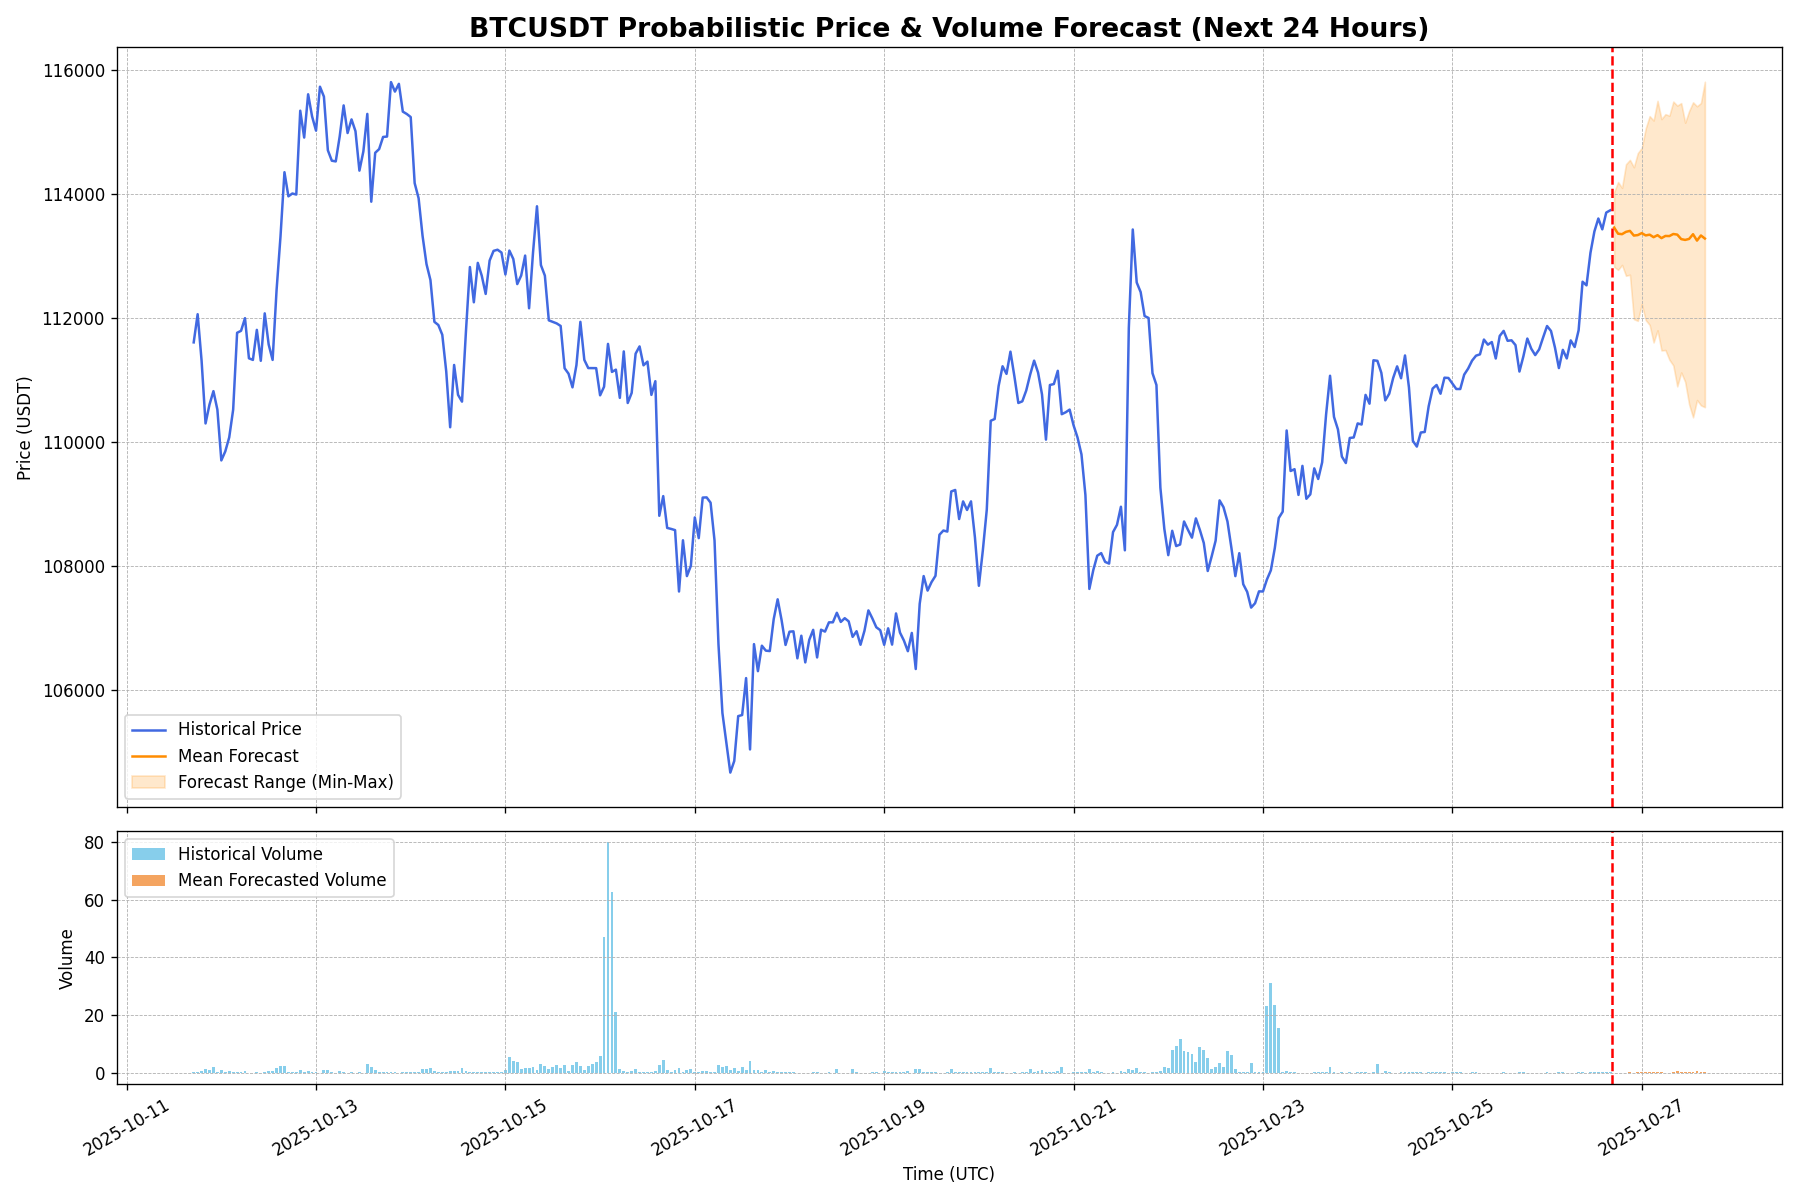
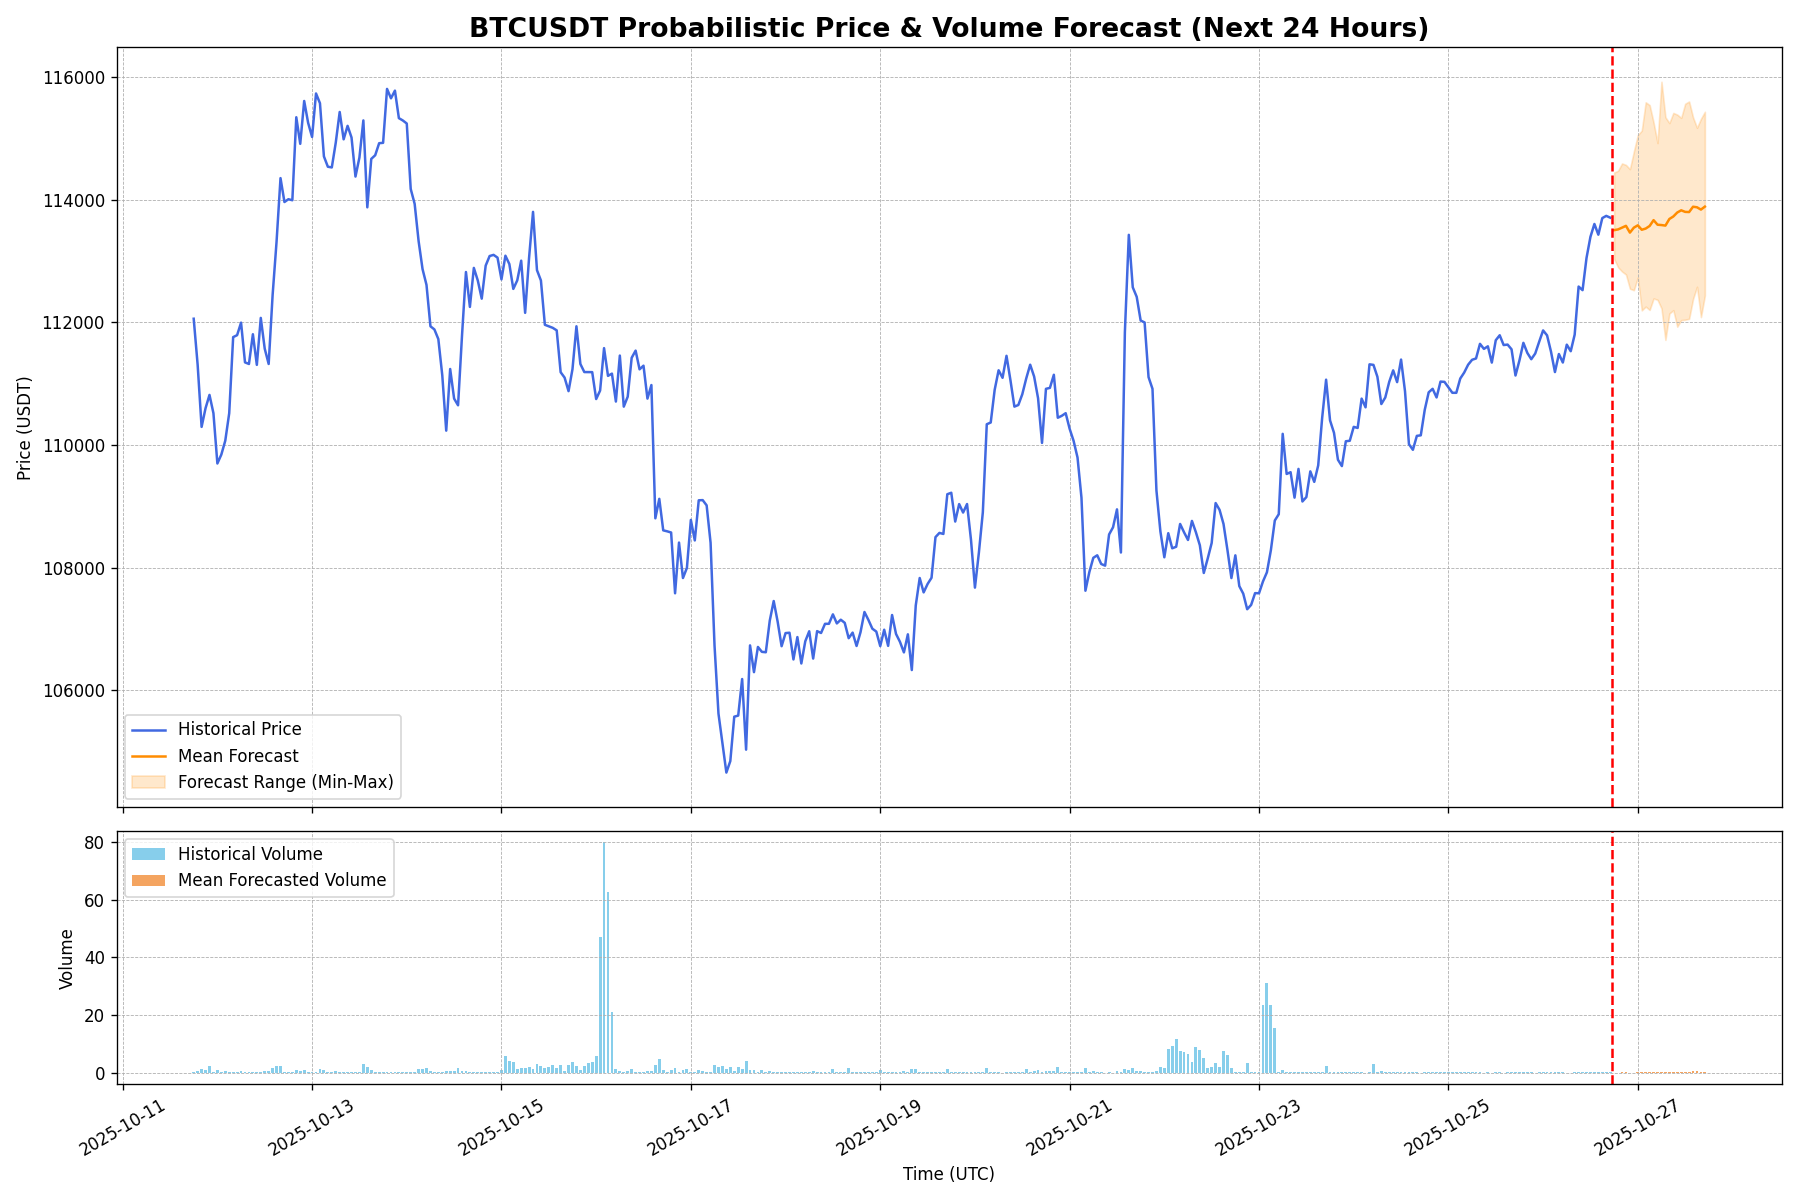
Auto-update forecast for 2025-10-26 18:13 UTC

diff --git a/index.html b/index.html
@@ -22,19 +22,19 @@
         <section id="live-dashboard">
             <h2>Live BTC/USDT Forecast Dashboard</h2>
             <div class="metadata">
-                <span>Last Updated (UTC): <strong id="update-time">2025-10-26 17:22:49</strong></span>
+                <span>Last Updated (UTC): <strong id="update-time">2025-10-26 18:13:09</strong></span>
                 <span>Data Source: Binance | Interval: 1-Hour</span>
             </div>
 
             <div class="metrics-container">
                 <div class="metric-card">
                     <h3>Upside Probability (Next 24h)</h3>
-                    <p class="metric-value" id="upside-prob">40.0%</p>
+                    <p class="metric-value" id="upside-prob">60.0%</p>
                     <div class="metric-desc">The model's confidence that the price in 24 hours will be higher than the last known price.</div>
                 </div>
                 <div class="metric-card">
                     <h3>Volatility Amplification (Next 24h)</h3>
-                    <p class="metric-value" id="vol-amp-prob">70.0%</p>
+                    <p class="metric-value" id="vol-amp-prob">73.3%</p>
                     <div class="metric-desc">The probability that predicted volatility over the next 24h will exceed recent historical volatility.</div>
                 </div>
             </div>
